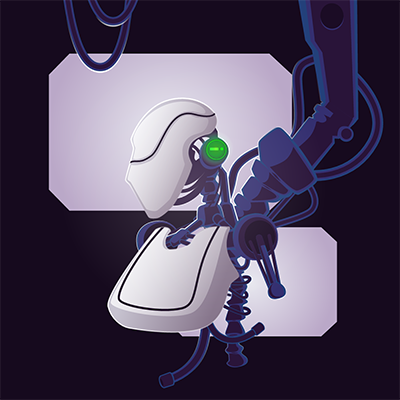
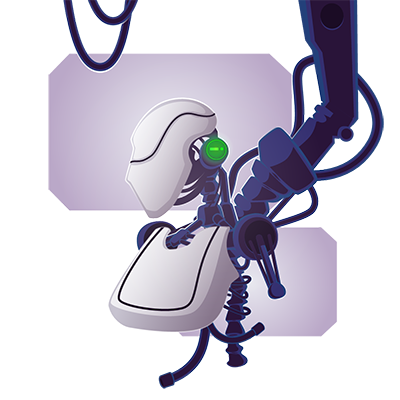
feat: update bots

diff --git a/src/components/hero-section.js b/src/components/hero-section.js
@@ -83,7 +83,7 @@ const HeroSection = () => {
   return (
     <div className="grid lg:grid-cols-2 gap-24">
       <div className="grid gap-8 items-center self-center">
-        <div className="grid gap-8 lg:gap-2 justify-items-center lg:justify-items-start">
+        <div className="grid gap-4 justify-items-center lg:justify-items-start">
           <img
             src={logo.svg.dataURI}
             alt={logo.title}
@@ -91,20 +91,22 @@ const HeroSection = () => {
             height={logo.file.details.image.height}
             className="w-[220px] md:w-[300px]"
           />
-          <div className="text-center lg:text-left">
-            <h1 className="text-2xl md:text-3xl">{eventName}</h1>
-            <h2 className="text-md font-light">{eventTagline}</h2>
-          </div>
-          <div className="grid gap-2 text-center lg:text-left justify-items-center lg:justify-items-start">
-            <h3 className="text-md font-bold">{eventDetails}</h3>
-            <a
-              href={url}
-              target="_blank"
-              rel="noreferrer"
-              className={`button button-${type}`}
-            >
-              {text}
-            </a>
+          <div className="grid gap-8 justify-items-center lg:justify-items-start">
+            <div className="text-center lg:text-left">
+              <h1 className="text-2xl md:text-3xl">{eventName}</h1>
+              <h2 className="text-md font-light">{eventTagline}</h2>
+            </div>
+            <div className="grid gap-4 text-center lg:text-left justify-items-center lg:justify-items-start">
+              <h3 className="text-md font-bold">{eventDetails}</h3>
+              <a
+                href={url}
+                target="_blank"
+                rel="noreferrer"
+                className={`button button-${type}`}
+              >
+                {text}
+              </a>
+            </div>
           </div>
         </div>
         <div className="flex gap-4 items-center justify-center lg:justify-start">

diff --git a/src/robots/gatsby-bot.js b/src/robots/gatsby-bot.js
@@ -16,7 +16,7 @@ const GatsbyBot = () => {
     autoplay: true,
   })
 
-  const isHoveredInput = useStateMachineInput(rive, STATE_MACHINE, 'isHovered')
+  const isVisible = useStateMachineInput(rive, STATE_MACHINE, 'isVisible')
   const isLimitedInput = useStateMachineInput(rive, STATE_MACHINE, 'isLimited')
 
   useEffect(() => {
@@ -32,25 +32,25 @@ const GatsbyBot = () => {
   useEffect(() => {
     const observer = new IntersectionObserver(
       ([entry]) => {
-        if (rive && isHoveredInput) {
+        if (rive && isVisible) {
           if (entry.isIntersecting) {
-            // console.log('visible')
-            isHoveredInput.value = true
+            // console.log('isVisible')
+            isVisible.value = true
           } else {
-            // console.log('!visible')
-            isHoveredInput.value = false
+            isVisible.value = false
+            // console.log('!isVisible')
           }
         }
       },
       {
-        rootMargin: '0px',
-        threshold: 0,
+        rootMargin: '400px',
+        threshold: 0.5,
       }
     )
     if (ref && ref.current) {
       observer.observe(ref.current)
     }
-  }, [rive, isHoveredInput])
+  }, [rive, isVisible])
 
   return (
     <div ref={ref} className="gatsby-bot">

diff --git a/src/styles/global.css b/src/styles/global.css
@@ -51,13 +51,13 @@
     @apply w-[250px] h-[250px] lg:w-[400px] lg:h-[400px];
   }
   .hero-border {
-    @apply absolute bottom-0 ml-[-40px] w-[280px] lg:h-[400px] lg:w-[440px];
+    @apply absolute bottom-0 ml-[-40px] w-[280px] h-[240px] lg:h-[400px] lg:w-[440px];
   }
   .rive-bot {
-    @apply w-[300px] h-[300px] lg:w-[500px] lg:h-[500px];
+    @apply w-[280px] h-[224px] lg:w-[400px] lg:h-[345px];
   }
   .rive-border {
-    @apply absolute lg:left-8 bottom-4 lg:bottom-12 w-[260px] lg:w-[360px];
+    @apply absolute w-[280px] lg:w-[400px] bottom-[-40px] lg:bottom-[-20px];
   }
   .gatsby-bot {
     @apply w-[250px] h-[240px] lg:w-[400px] lg:h-[400px];

diff --git a/src/components/root-element.js b/src/components/root-element.js
@@ -9,7 +9,7 @@ const RootElement = ({ children }) => {
     <Fragment>
       <Seo />
       <Header />
-      <main className="relative">
+      <main className="relative py-20">
         <div className="relative max-w-screen-lg min-w-[320px] min-h-[1800px] mx-auto px-4 py-20 z-10">
           {children}
         </div>
